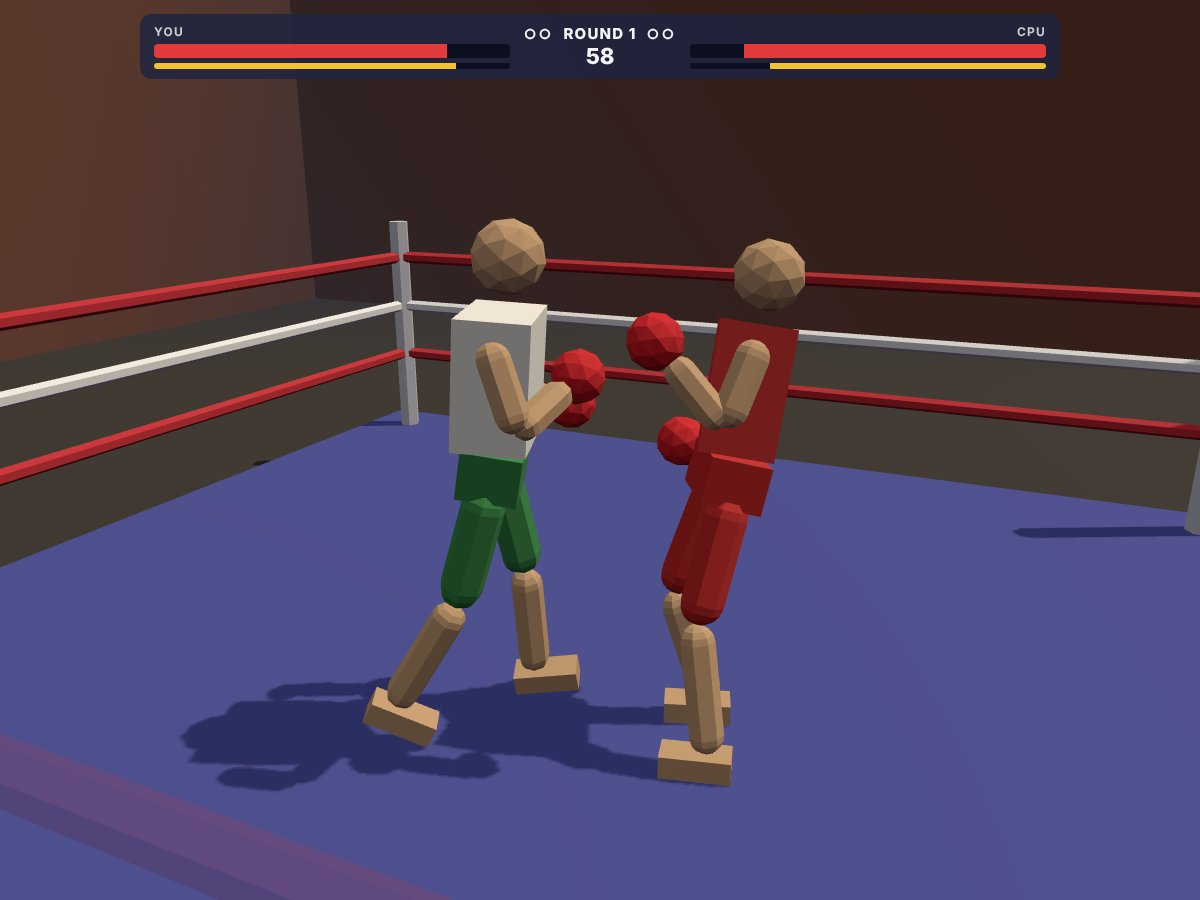
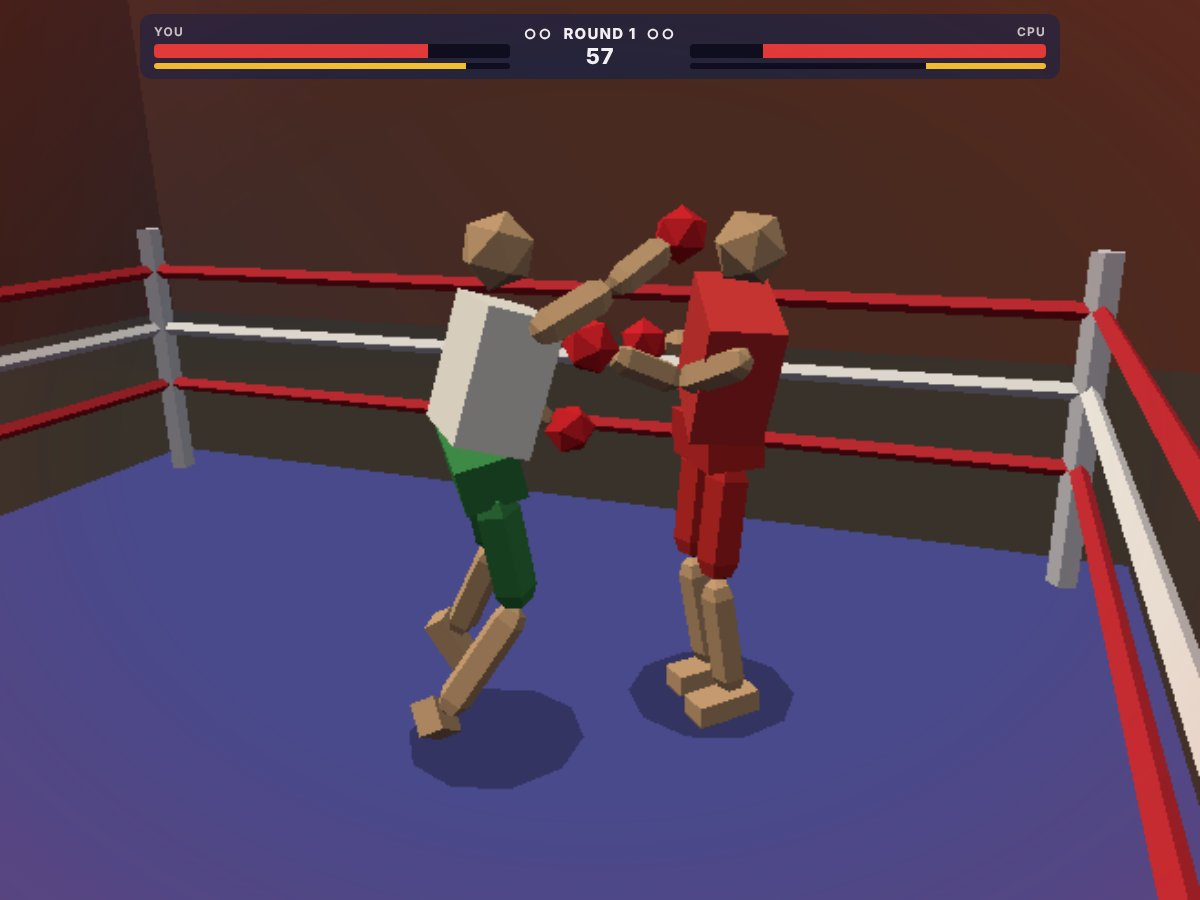
Ragdoll Boxing: 로우폴리 경량화로 프레임 개선
- 실시간 그림자 제거 → 발밑 원형 그림자, PBR 재질 → 램버트 면 음영(같은 색 재질 공유)
- 머리·글러브 20면, 팔다리 5각 캡슐, 로프 4각 등 폴리곤 축소
- 안티앨리어싱 끄고 해상도 배율 1 이하, 프레임이 느리면 자동으로 0.5까지 낮춤
- 물리 솔버 반복 8→4(안정성 확인), 한 프레임 최대 물리 스텝 8→4
- HUD는 바뀐 값만 쓰고, 피격 붉은 테두리는 재생 중에만 존재

Claude-Session: https://claude.ai/code/session_01BNALm7eaX1WzLJqB5wAXG2

diff --git a/ragdoll-boxing/js/render/Renderer.js b/ragdoll-boxing/js/render/Renderer.js
@@ -1,16 +1,25 @@
 import * as THREE from '../../vendor/three.module.min.js';
 
 const UP = new THREE.Vector3(0, 1, 0);
-const flat = (color) => new THREE.MeshStandardMaterial({ color, flatShading: true, roughness: 0.85 });
+const _a = new THREE.Vector3(), _b = new THREE.Vector3(), _c = new THREE.Vector3();
+// 로우폴리: 가벼운 램버트 + 면 단위 음영, 같은 색은 재질 하나를 같이 쓴다
+const mats = new Map();
+const flat = (color, own = false) => {
+  if (own) return new THREE.MeshLambertMaterial({ color, flatShading: true });
+  if (!mats.has(color)) mats.set(color, new THREE.MeshLambertMaterial({ color, flatShading: true }));
+  return mats.get(color);
+};
 
 // 물리 상태를 읽어서 그리기만 한다(물리에 쓰지 않음).
 export class Renderer {
   constructor(canvas, sim, cfg) {
     this.sim = sim;
     this.cfg = cfg;
-    this.gl = new THREE.WebGLRenderer({ canvas, antialias: true });
-    this.gl.setPixelRatio(Math.min(devicePixelRatio, 2)); // ponytail: 품질 설정이 필요하면 여기와 그림자 크기를 메뉴로
-    this.gl.shadowMap.enabled = true;
+    this.gl = new THREE.WebGLRenderer({ canvas, antialias: false, powerPreference: 'high-performance' });
+    // 해상도 배율: 1에서 시작해 프레임이 느리면 자동으로 낮추고(최소 0.5), 여유가 생기면 다시 올린다
+    this.scale = 1;
+    this.frameAvg = 1 / 60;
+    this.sinceScale = 0;
     this.scene = new THREE.Scene();
     this.scene.background = new THREE.Color('#2a2d3a');
     this.scene.fog = new THREE.Fog('#2a2d3a', 9, 22);
@@ -24,10 +33,11 @@ export class Renderer {
     this.scene.add(new THREE.HemisphereLight('#ffffff', '#4a4060', 1.1));
     const sun = new THREE.DirectionalLight('#fff4e0', 2.2);
     sun.position.set(2, 7, 4);
-    sun.castShadow = true;
-    sun.shadow.mapSize.set(1024, 1024);
-    Object.assign(sun.shadow.camera, { left: -4, right: 4, top: 4, bottom: -4 });
     this.scene.add(sun);
+    // 실시간 그림자 대신 발밑 원형 그림자(훨씬 가볍다)
+    const blobGeo = new THREE.CircleGeometry(0.34, 10).rotateX(-Math.PI / 2);
+    const blobMat = new THREE.MeshBasicMaterial({ color: '#000', transparent: true, opacity: 0.3, depthWrite: false });
+    this.blobs = sim.fighters.map(() => { const m = new THREE.Mesh(blobGeo, blobMat); this.scene.add(m); return m; });
 
     this._arena(cfg.physics.ring);
     this.meshes = sim.fighters.map((f, i) => this._fighter(f, i ? cfg.fighter.looks.ai : cfg.fighter.looks.player));
@@ -38,10 +48,9 @@ export class Renderer {
 
   _arena(ring) {
     const h = ring.half, s = this.scene;
-    const add = (geo, mat, x, y, z, shadow = true) => {
+    const add = (geo, mat, x, y, z) => {
       const m = new THREE.Mesh(geo, mat);
       m.position.set(x, y, z);
-      m.receiveShadow = shadow;
       s.add(m);
       return m;
     };
@@ -49,16 +58,16 @@ export class Renderer {
     add(new THREE.BoxGeometry(30, 0.1, 30), flat('#3a3530'), 0, -0.36, 0);
     // 벽돌 벽 대신 단색 벽 4면
     for (const [x, z, ry] of [[0, -9, 0], [0, 9, Math.PI], [-9, 0, Math.PI / 2], [9, 0, -Math.PI / 2]]) {
-      add(new THREE.PlaneGeometry(18, 7), flat('#7a4a3a'), x, 3.1, z, false).rotation.y = ry;
+      add(new THREE.PlaneGeometry(18, 7), flat('#7a4a3a'), x, 3.1, z).rotation.y = ry;
     }
-    const post = new THREE.CylinderGeometry(0.07, 0.07, 1.5, 6);
-    for (const x of [-h, h]) for (const z of [-h, h]) add(post, flat('#d0d0d8'), x, 0.75, z).castShadow = true;
+    const post = new THREE.CylinderGeometry(0.07, 0.07, 1.5, 5);
+    for (const x of [-h, h]) for (const z of [-h, h]) add(post, flat('#d0d0d8'), x, 0.75, z);
     this.ropes = [];
     ring.ropeHeights.forEach((y, i) => {
       for (const [x, z, ry] of [[h, 0, 0], [-h, 0, 0], [0, h, Math.PI / 2], [0, -h, Math.PI / 2]]) {
-        const mat = flat(i === 1 ? '#eeeeee' : '#c8303a');
+        const mat = flat(i === 1 ? '#eeeeee' : '#c8303a', true);
         mat.transparent = true;
-        const r = add(new THREE.CylinderGeometry(ring.ropeRadius, ring.ropeRadius, h * 2, 6), mat, x, y, z);
+        const r = add(new THREE.CylinderGeometry(ring.ropeRadius, ring.ropeRadius, h * 2, 4), mat, x, y, z);
         r.rotation.set(Math.PI / 2, ry, 0, 'YXZ');
         this.ropes.push({ mat, n: new THREE.Vector3(Math.sign(x), 0, Math.sign(z)) });
       }
@@ -71,10 +80,9 @@ export class Renderer {
     return Object.values(f.body.parts).map((p) => {
       const d = p.def;
       const geo = d.shape === 'box' ? new THREE.BoxGeometry(d.half[0] * 2, d.half[1] * 2, d.half[2] * 2)
-        : d.shape === 'ball' ? new THREE.IcosahedronGeometry(d.radius, 1)
-        : new THREE.CapsuleGeometry(d.radius, d.halfHeight * 2, 2, 7);
+        : d.shape === 'ball' ? new THREE.IcosahedronGeometry(d.radius, 0)
+        : new THREE.CapsuleGeometry(d.radius, d.halfHeight * 2, 1, 5);
       const m = new THREE.Mesh(geo, flat(color[p.kind] ?? skin));
-      m.castShadow = true;
       this.scene.add(m);
       return { m, body: p.body };
     });
@@ -82,6 +90,7 @@ export class Renderer {
 
   resize() {
     const w = innerWidth, h = innerHeight;
+    this.gl.setPixelRatio(Math.min(devicePixelRatio, 1) * this.scale);
     this.gl.setSize(w, h, false);
     this.camera.aspect = w / h;
     this.camera.updateProjectionMatrix();
@@ -89,9 +98,10 @@ export class Renderer {
 
   // 옆에서 두 선수 가운데를 본다. 플레이어(0)가 화면 왼쪽에 오도록 카메라 방향을 고른다.
   _camera(dt) {
-    const [a, b] = this.sim.fighters.map((f) => f.body.pos('pelvis'));
-    const mid = a.clone().add(b).multiplyScalar(0.5);
-    const dir = b.clone().sub(a).setY(0);
+    const [f0, f1] = this.sim.fighters;
+    const a = f0.body.pos('pelvis', _a), b = f1.body.pos('pelvis', _b);
+    const dir = _c.subVectors(b, a).setY(0);
+    const mid = a.add(b).multiplyScalar(0.5);
     const dist = dir.length();
     if (dist > 0.05) {
       const side = dir.normalize().cross(UP);
@@ -102,7 +112,7 @@ export class Renderer {
     }
     const back = 2.4 + dist * 0.8 + (innerWidth < innerHeight ? 1.6 : 0);
     const k = Math.min(1, dt * 3);
-    this.camPos.lerp(mid.clone().addScaledVector(this.camSide, back).setY(2.0), k);
+    this.camPos.lerp(_b.copy(mid).addScaledVector(this.camSide, back).setY(2.0), k);
     this.camLook.lerp(mid.setY(1.05), k);
     this.camera.position.copy(this.camPos);
     this.camera.lookAt(this.camLook);
@@ -110,7 +120,7 @@ export class Renderer {
     const t = this.trauma * this.trauma;
     if (t > 0) {
       const r = () => Math.random() * 2 - 1;
-      this.camera.position.add(new THREE.Vector3(r(), r(), r()).multiplyScalar(t * 0.18));
+      this.camera.position.add(_c.set(r(), r(), r()).multiplyScalar(t * 0.18));
       this.camera.rotateZ(r() * t * 0.06);
       this.trauma = Math.max(0, this.trauma - dt * 2.2);
     }
@@ -134,7 +144,22 @@ export class Renderer {
     return true;
   }
 
+  // 프레임 시간 평균으로 해상도 배율 조절 (느린 PC에서도 끊기지 않게)
+  _adapt(dt) {
+    this.frameAvg += (dt - this.frameAvg) * 0.05;
+    this.sinceScale += dt;
+    if (this.sinceScale < 1) return;
+    const next = this.frameAvg > 1 / 45 ? Math.max(0.5, this.scale - 0.15) : this.frameAvg < 1 / 58 ? Math.min(1, this.scale + 0.1) : this.scale;
+    if (next !== this.scale) { this.scale = next; this.sinceScale = 0; this.resize(); }
+  }
+
   render(dt) {
+    this._adapt(dt);
+    this.sim.fighters.forEach((f, i) => {
+      const p = f.body.pos('pelvis', _a);
+      this.blobs[i].position.set(p.x, 0.006, p.z);
+      this.blobs[i].scale.setScalar(Math.max(0.5, 1.3 - p.y * 0.4));
+    });
     for (const list of this.meshes) for (const { m, body } of list) {
       const t = body.translation(), r = body.rotation();
       m.position.set(t.x, t.y, t.z);

diff --git a/ragdoll-boxing/js/ui/hud.js b/ragdoll-boxing/js/ui/hud.js
@@ -16,16 +16,21 @@ export class Hud {
     this.el.msg.classList.toggle('show', !!text);
   }
 
+  // 바뀐 값만 DOM에 쓴다 (매 프레임 레이아웃 계산을 줄임)
+  set(el, key, value) {
+    if (el[key] !== value) el[key] = value;
+  }
+
   update(sim) {
     const m = sim.match;
     sim.fighters.forEach((f, i) => {
       const b = this.bars[i];
-      b.hp.style.width = (f.s.health / f.s.maxHealth) * 100 + '%';
-      b.st.style.width = (f.s.stamina / f.s.maxStamina) * 100 + '%';
-      b.dots.textContent = Array.from({ length: m.cfg.roundsToWin }, (_, k) => (k < m.wins[i] ? '●' : '○')).join('');
+      this.set(b.hp.style, 'width', Math.round((f.s.health / f.s.maxHealth) * 100) + '%');
+      this.set(b.st.style, 'width', Math.round((f.s.stamina / f.s.maxStamina) * 100) + '%');
+      this.set(b.dots, 'textContent', Array.from({ length: m.cfg.roundsToWin }, (_, k) => (k < m.wins[i] ? '●' : '○')).join(''));
     });
-    this.el.round.textContent = 'ROUND ' + m.round;
-    this.el.clock.textContent = Math.ceil(m.clock);
+    this.set(this.el.round, 'textContent', 'ROUND ' + m.round);
+    this.set(this.el.clock, 'textContent', String(Math.ceil(m.clock)));
     const r = m.result;
     this.message(
       m.phase === 'intro' ? (m.time < m.cfg.introTime - 0.6 ? 'ROUND ' + m.round : 'FIGHT!')

diff --git a/ragdoll-boxing/index.html b/ragdoll-boxing/index.html
@@ -45,8 +45,9 @@
   .pop.block { color: #7fd4ff; }
   @keyframes pop { 0% { opacity: 0; transform: translate(-50%, -30%) scale(.6); } 15% { opacity: 1; transform: translate(-50%, -50%) scale(1.15); }
     30% { transform: translate(-50%, -50%) scale(1); } 65% { opacity: 1; transform: translate(-50%, -75%); } 100% { opacity: 0; transform: translate(-50%, -120%); } }
-  #flash { position: fixed; inset: 0; pointer-events: none; background: radial-gradient(transparent 55%, #e2202080); opacity: 0; transition: opacity .25s; }
-  #flash.on { opacity: 1; transition: none; }
+  #flash { position: fixed; inset: 0; pointer-events: none; background: radial-gradient(transparent 55%, #e2202080); display: none; }
+  #flash.on { display: block; animation: flash .3s ease-out forwards; }
+  @keyframes flash { from { opacity: 1; } to { opacity: 0; } }
   #debug { position: fixed; left: 12px; bottom: 34px; margin: 0; padding: 10px 12px; background: #000a; border-radius: 8px; font: 12px/1.4 ui-monospace, monospace; white-space: pre; pointer-events: none; }
   .hint { position: fixed; right: 12px; bottom: 10px; font-size: 12px; opacity: .55; }
   #loading { position: fixed; inset: 0; display: grid; place-items: center; font-weight: 700; }

diff --git a/ragdoll-boxing/js/main.js b/ragdoll-boxing/js/main.js
@@ -17,6 +17,7 @@ const menu = document.getElementById('menu'), end = document.getElementById('end
 let running = false;
 let freeze = 0; // 히트스톱: 강한 타격 순간 물리를 아주 잠깐 멈춘다
 const feel = match.feel, flash = document.getElementById('flash');
+flash.addEventListener('animationend', () => flash.classList.remove('on'));
 
 sim.collisions.onHit = (atk, def, part, res) => {
   const pos = def.body.pos('head');
@@ -29,7 +30,7 @@ sim.collisions.onHit = (atk, def, part, res) => {
   }
   renderer.shake(part.kind === 'head' ? feel.shakeHead : feel.shakeHit);
   freeze = Math.max(freeze, res.heavy ? feel.hitStopHeavy : feel.hitStop);
-  if (def.index === 0) { flash.classList.add('on'); requestAnimationFrame(() => flash.classList.remove('on')); }
+  if (def.index === 0) { flash.classList.remove('on'); void flash.offsetWidth; flash.classList.add('on'); }
 };
 const lastState = ['', ''];
 
